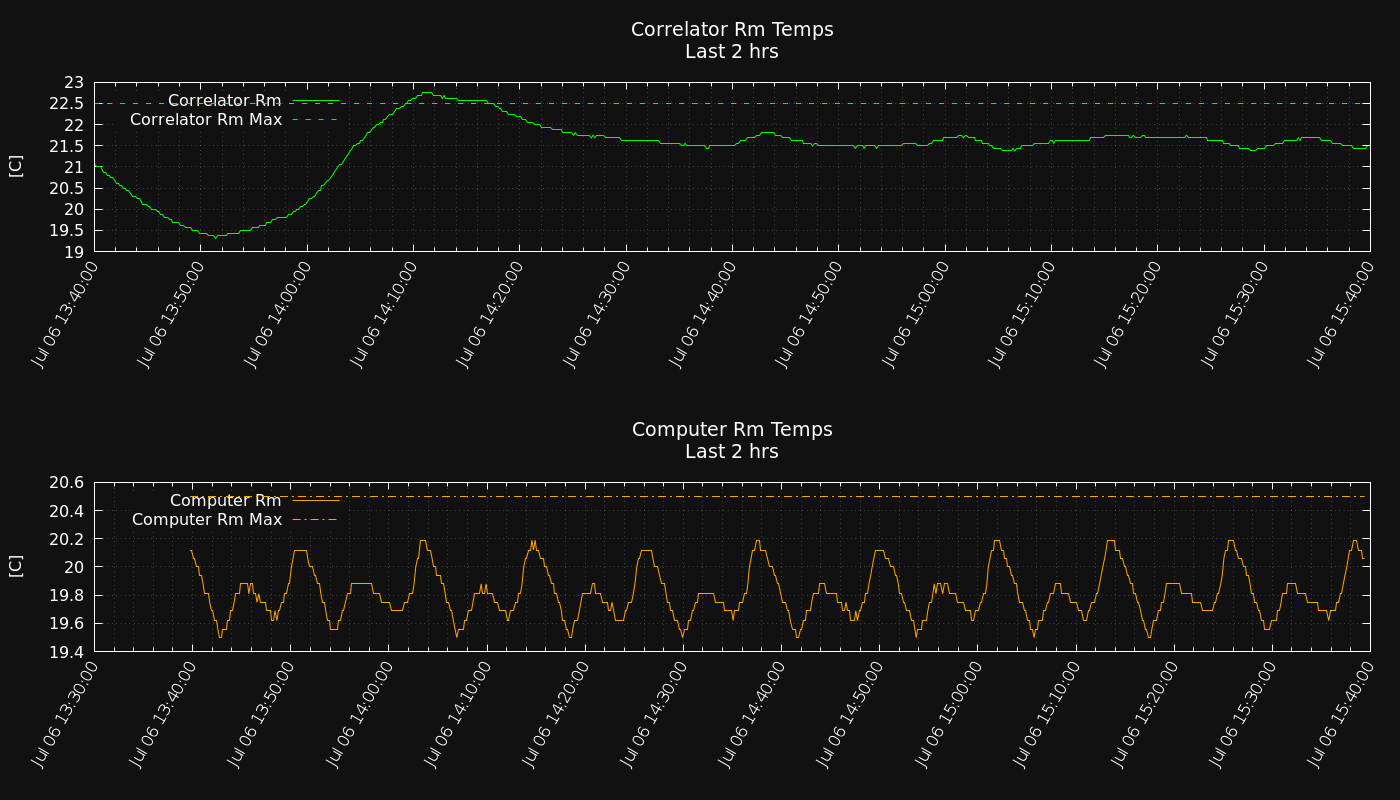
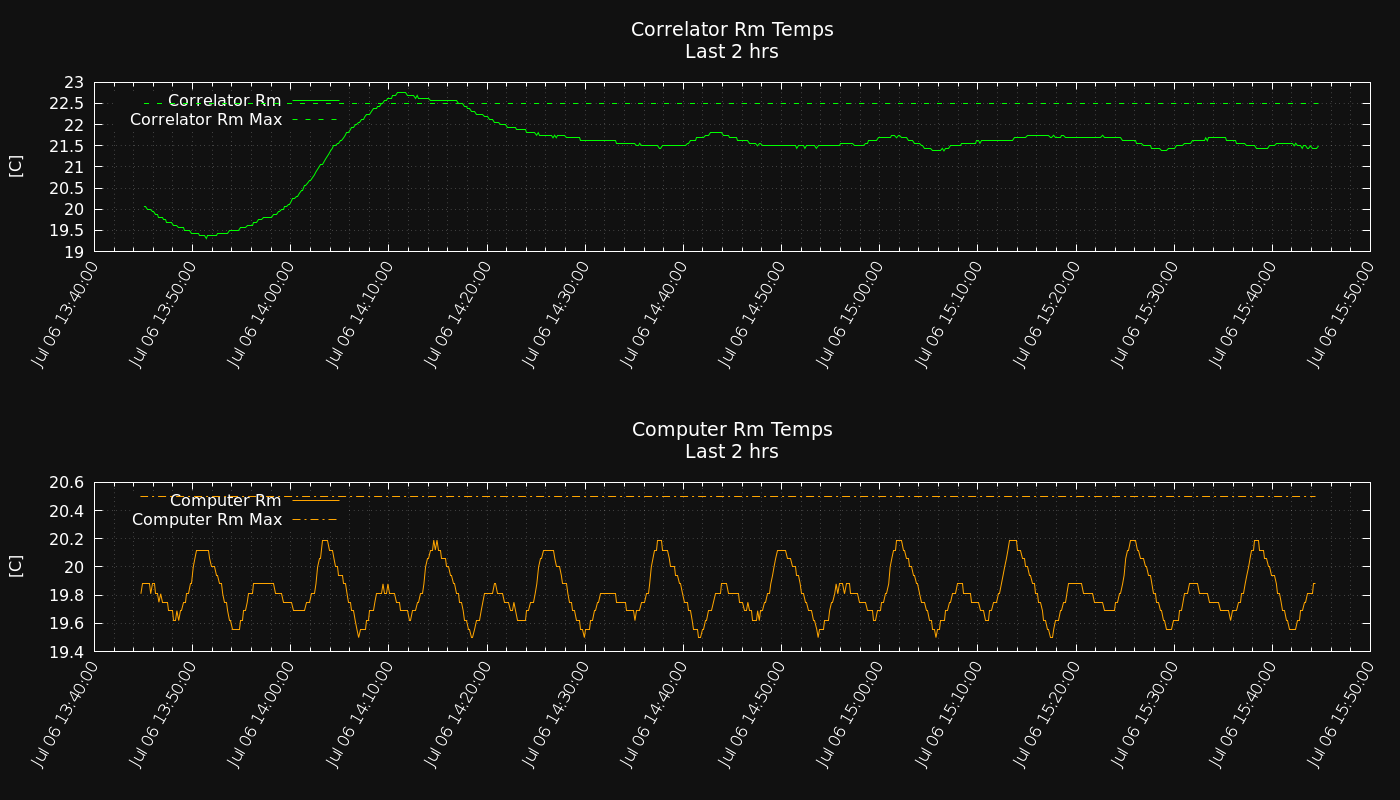
update

diff --git a/generatorMon/date-time.html b/generatorMon/date-time.html
@@ -1,2 +1,3 @@
-<h2>Last Record Read- Local: 2022-07-06 22:43:46.651714661 &#43;0000 UTC; LST: 9ʰ50ᵐ12ˢ.7010; MJD: 59766.947067728266</h2>
+<h2>Last Record Read- Local: 2022-07-06 22:45:46.700719939 &#43;0000 UTC; LST: 9ʰ52ᵐ13ˢ.0786; MJD: 59766.94845718425</h2>
+
 
